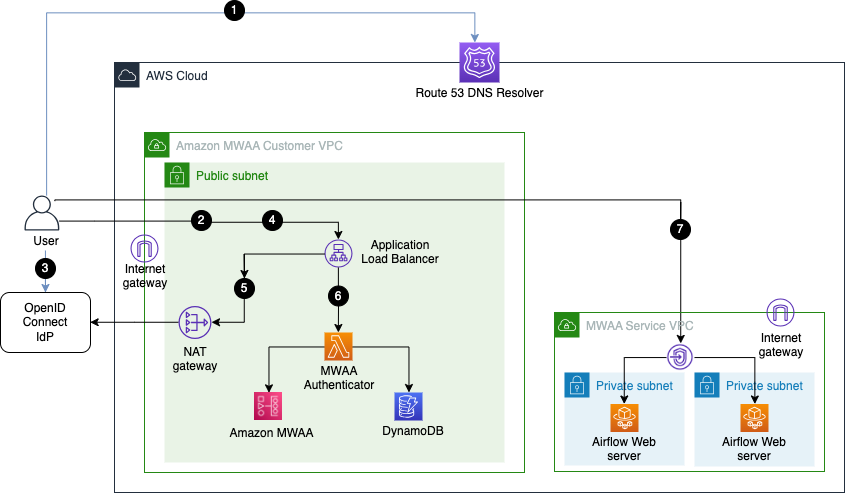
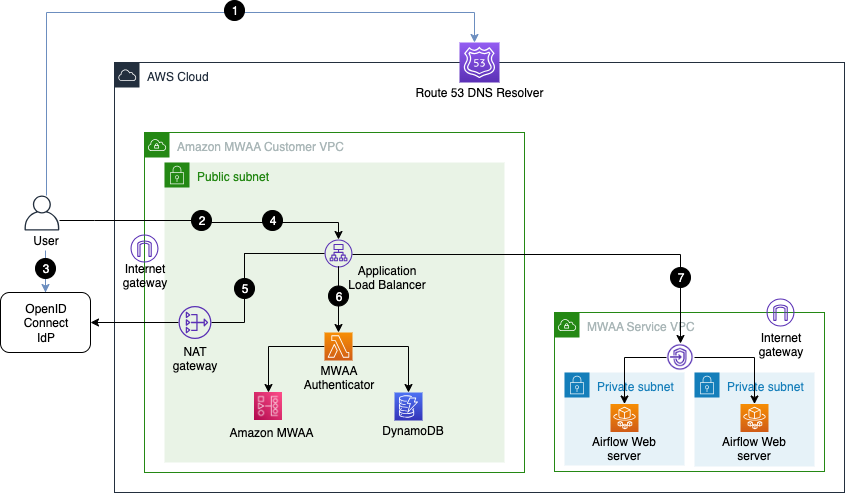
Updated Quickstart Architecture diagram

diff --git a/README.md b/README.md
@@ -11,14 +11,14 @@ Although not required, this solution can also be used to provision new Amazon MW
 In the following sections, we first describe the applicable use cases, followed by the comprehensive [solution architecture](#solution-architecture) and instructions to implement for each of those use cases. Additionally, there is [system](#system-perspective) and [user](#user-perspective) perspectives for understanding the comprehensive solution, [prerequisites](#prerequisites), and [step-by-step tutorial](#step-by-step-tutorial) for deploying and using the detailed solution.
 
 ## Solution architecture
-The solution provisions AWS resources in two distinct patterns required for the specific usecases:
+The solution provisions AWS resources for two distinct patterns required for the specific usecases:
 <ol type="a">
   <li>To provision resources required to provide integration to single existing Amazon MWAA environment as mentioned in the QuickStart section.</li>
   <li>To provision resources required for all other usecases: Integrate to multiple existing Amazon MWAA environments or create one or more new Amazon MWAA environments</li>
 </ol>
 
 ### Architecture for Quickstart
-The solution architecture diagram with numbered call flow sequence for an existing Amazon MWAA environment with Public Access mode is shown below:
+The solution architecture diagram with numbered call flow sequence to integrate with an existing Amazon MWAA environment with Public Access mode is shown below:
 ![Internet Solution architecture](images/quickstart-call-flow.png)
 
 1. User-agent resolves ALB DNS domain name from DNS resolver. 
